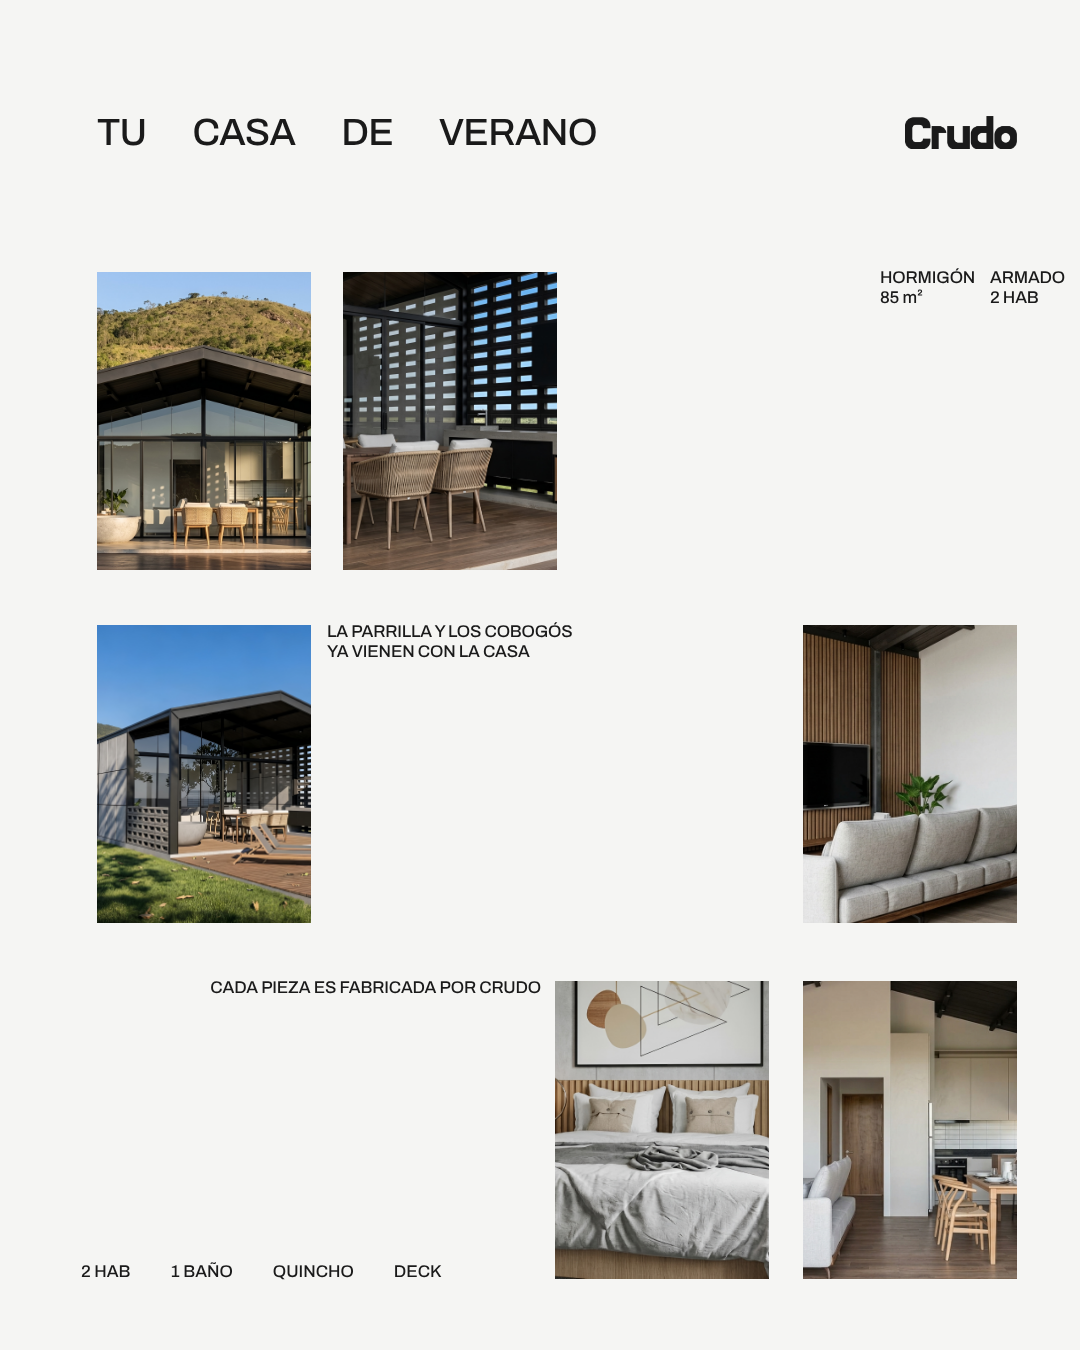
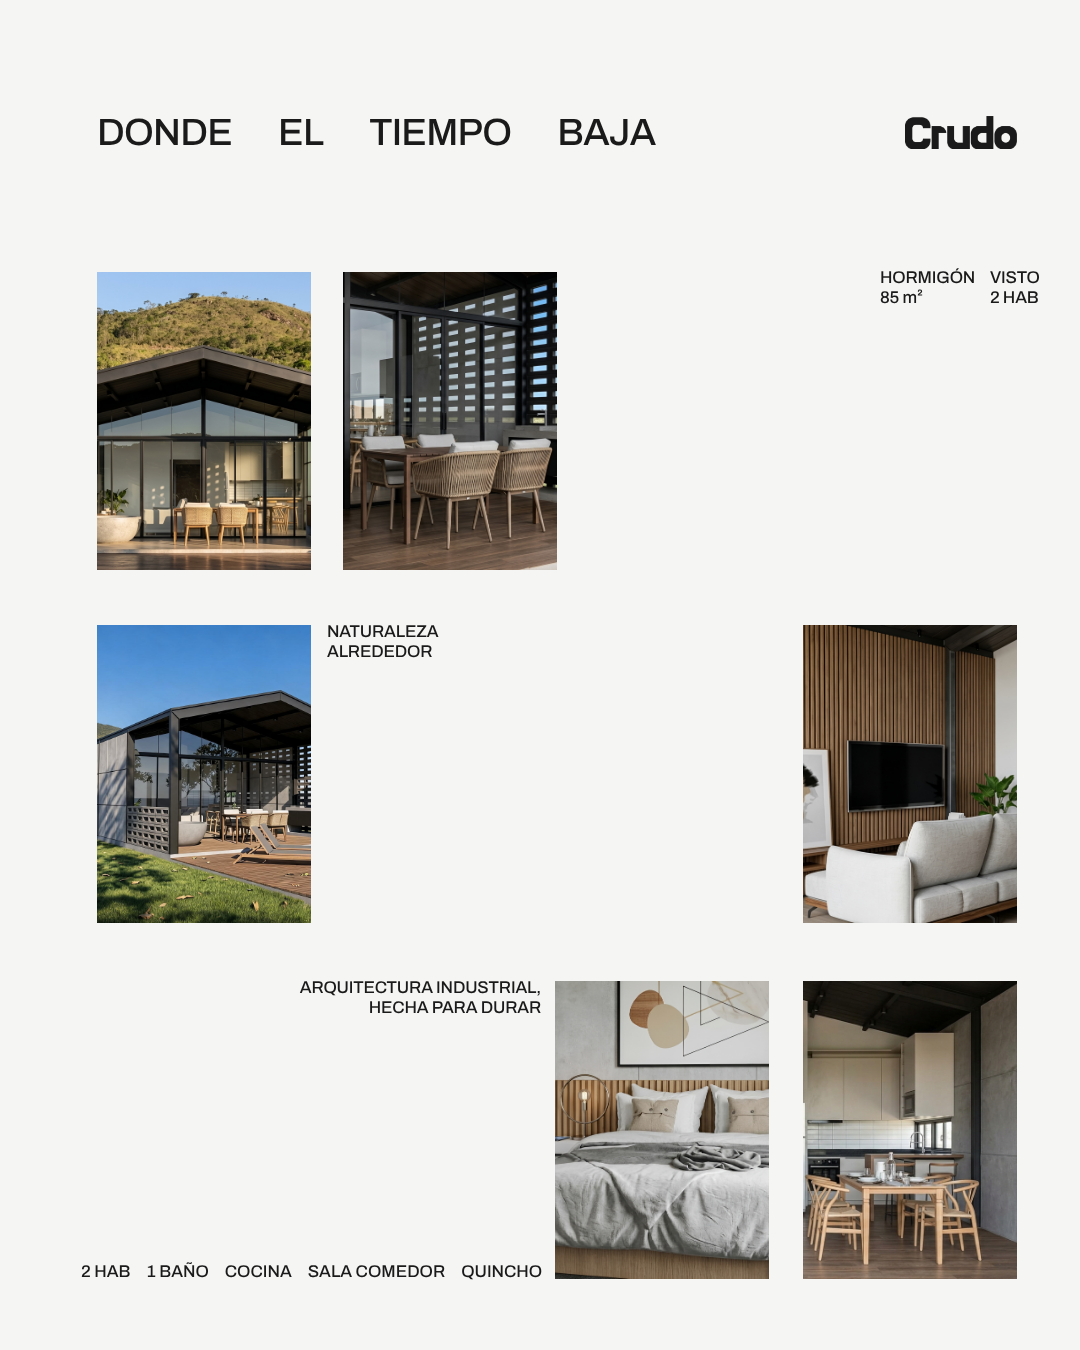
Carruseles editoriales: correcciones de Diego (frases, fotos, lámina 2 con lo que incluye)
Claude-Session: https://claude.ai/code/session_0148DkUn8cZ8yRuXF434YGqr

diff --git a/contenido/plantillas/carrusel_editorial.py b/contenido/plantillas/carrusel_editorial.py
@@ -24,46 +24,49 @@ TIPOLOGIAS = {
         "titulo": ["El", "refugio", "que", "buscabas"],
         "col1": ["Hormigón", "31 m²"], "col2": ["armado", "Loft"],
         "frase_media": ["Despertar", "frente al verde"],
+        "frase_material": ["Cada pieza es fabricada por Crudo"],
         "pie": ["1 hab", "1 baño", "deck"],
         "grilla": [("1-campo", "31% 62%"), ("1-e", "62% 50%"), ("1-i", "72% 50%"),
                    ("1-k", "58% 50%"), ("1-d", "58% 50%"), ("1-l", "50% 72%")],
         "exterior": ("1-campo", "27% 50%"),
-        "exterior_texto": ["Tu refugio de fin de semana", "Concreto arquitectónico"],
+        "exterior_texto": ["1 hab · 1 baño · deck"],
         "closeup": ("1-e", "58% 50%"),
     },
     "crudo02": {
-        "titulo": ["Todo", "a", "un", "paso"],
-        "col1": ["Hormigón", "26 m²"], "col2": ["armado", "Loft"],
-        "frase_media": ["Cocinás, dormís", "y salís al deck"],
+        "titulo": ["Desconectar", "es", "esto"],
+        "col1": ["Hormigón", "26 m²"], "col2": ["visto", "Loft"],
+        "frase_media": ["Silencio, verde", "y descanso"],
+        "frase_material": ["Materiales para toda la vida"],
         "pie": ["1 hab", "1 baño", "kitchenette", "deck"],
-        "grilla": [("2-a", "40% 50%"), ("2-b", "62% 50%"), ("2-g", "62% 50%"),
-                   ("2-c", "45% 50%"), ("2-e", "50% 50%"), ("2-f", "50% 50%")],
-        "exterior": ("2-a", "42% 50%"),
-        "exterior_texto": ["Kitchenette, deck y cobogós", "Concreto arquitectónico"],
-        "closeup": ("2-e", "48% 50%"),
+        "grilla": [("2-a", "70% 50%"), ("2-b", "70% 50%"), ("2-g", "70% 50%"),
+                   ("2-c", "55% 50%"), ("2-e", "75% 50%"), ("2-f", "50% 50%")],
+        "exterior": ("2-a", "50% 50%"), "exterior_ajuste": "contain",
+        "exterior_texto": ["1 hab · 1 kitchenette · 1 deck"],
+        "closeup": ("2-b", "72% 50%"),
     },
     "crudo03": {
-        "titulo": ["Una", "casa", "para", "quedarse"],
+        "titulo": ["Tu", "lugar", "en", "paz"],
         "col1": ["Hormigón", "66 m²"], "col2": ["armado", "2 hab"],
-        "frase_media": ["Un estar que", "se abre afuera"],
-        "pie": ["2 hab", "1 baño", "cocina con isla"],
-        "grilla": [("3-a", "58% 50%"), ("3-c", "40% 50%"), ("3-d", "60% 50%"),
-                   ("3-f", "60% 50%"), ("3-h", "62% 50%"), ("3-g", "55% 50%")],
-        "exterior": ("3-a", "60% 50%"),
-        "exterior_texto": ["Dos dormitorios y cocina con isla", "Concreto arquitectónico"],
-        "closeup": ("3-f", "62% 50%"),
+        "frase_media": ["Mañanas lentas,", "tardes al aire libre"],
+        "frase_material": ["Hormigón armado y", "concreto de alto performance"],
+        "pie": ["cocina con isla", "sala comedor", "quincho"],
+        "grilla": [("3-a", "0% 50%"), ("3-l", "20% 50%"), ("3-b", "85% 50%"),
+                   ("3-g", "75% 50%"), ("3-h", "85% 50%"), ("3-c", "75% 50%")],
+        "exterior": ("3-k", "50% 50%"), "exterior_ajuste": "contain",
+        "exterior_texto": ["2 hab · 1 baño · cocina con isla", "Sala comedor · quincho"],
+        "closeup": ("3-g", "70% 50%"),
     },
     "crudo04": {
-        "titulo": ["Tu", "casa", "de", "verano"],
-        "col1": ["Hormigón", "85 m²"], "col2": ["armado", "2 hab"],
-        "frase_media": ["La parrilla y los cobogós", "ya vienen con la casa"],
-        "pie": ["2 hab", "1 baño", "quincho", "deck"],
-        "grilla": [("4-a", "50% 55%"), ("4-c", "72% 50%"), ("4-b", "45% 50%"),
-                   ("4-e", "30% 50%"), ("4-h", "50% 50%"), ("4-f", "55% 50%")],
-        "exterior": ("4-a", "50% 55%"),
-        "exterior_texto": ["Quincho con parrilla y deck", "Concreto arquitectónico"],
-        "closeup": ("4-h", "50% 50%"),
-        "closeup_claro": True,  # pared y cuadro claros arriba: logo oscuro, sin velo
+        "titulo": ["Donde", "el", "tiempo", "baja"],
+        "col1": ["Hormigón", "85 m²"], "col2": ["visto", "2 hab"],
+        "frase_media": ["Naturaleza", "alrededor"],
+        "frase_material": ["Arquitectura industrial,", "hecha para durar"],
+        "pie": ["2 hab", "1 baño", "cocina", "sala comedor", "quincho"],
+        "grilla": [("4-a", "50% 55%"), ("4-c", "60% 50%"), ("4-B", "45% 50%"),
+                   ("4-e", "15% 50%"), ("4-h", "40% 50%"), ("4-f", "80% 50%")],
+        "exterior": ("4-B", "50% 50%"), "exterior_ajuste": "contain",
+        "exterior_texto": ["2 hab · 1 baño · cocina", "Sala comedor · quincho"],
+        "closeup": ("4-e", "18% 50%"),
     },
 }
 
@@ -91,6 +94,20 @@ def html(clave, t):
     grilla = "\n".join(
         f'<img class="foto" src="{render(r)}" style="left:{x}px;top:{y}px;width:214px;height:298px;object-position:{pos}">'
         for (x, y), (r, pos) in zip(CELDAS, t["grilla"]))
+    completo = t.get("exterior_ajuste") == "contain"
+    src_ext = render(t["exterior"][0])
+    if completo:
+        # módulo completo: la foto entera a todo el ancho, centrada sobre fondo claro
+        w, h = Image.open(src_ext.replace("file://", "")).size
+        alto = round(1080 * h / w)
+        exterior = f'<img class="foto" src="{src_ext}" style="left:0;top:{(1350 - alto) // 2}px;width:1080px;height:{alto}px">'
+    else:
+        exterior = f'<img class="foto" src="{src_ext}" style="left:0;top:0;width:1080px;height:1350px;object-position:{t["exterior"][1]}">'
+    l2_clase = "lam" if completo else "lam oscura"
+    l2_logo = logo_iron if completo else logo_ala
+    l2_velos = "" if completo else (
+        '<div class="velo" style="top:0;height:300px;background:linear-gradient(to bottom, rgb(26 26 26 / 0.5), rgb(26 26 26 / 0))"></div>'
+        '<div class="velo" style="bottom:0;height:260px;background:linear-gradient(to top, rgb(26 26 26 / 0.42), rgb(26 26 26 / 0))"></div>')
     claro = t.get("closeup_claro", False)
     logo_l3 = logo_iron if claro else logo_ala
     velo_l3 = "" if claro else '<div class="velo" style="top:0;height:220px;background:linear-gradient(to bottom, rgb(26 26 26 / 0.35), rgb(26 26 26 / 0))"></div>'
@@ -117,17 +134,16 @@ def html(clave, t):
   <div class="t" style="left:880px;top:268px">{texto(t["col1"])}</div>
   <div class="t" style="left:990px;top:268px">{texto(t["col2"])}</div>
   <div class="t" style="left:327px;top:622px">{texto(t["frase_media"])}</div>
-  <div class="t" style="right:539px;top:978px;text-align:right">Cada pieza es fabricada por Crudo</div>
-  <div class="palabras" style="left:81px;top:1262px;font-size:17px;gap:40px">{spans(t["pie"])}</div>
+  <div class="t" style="right:539px;top:978px;text-align:right">{texto(t["frase_material"])}</div>
+  <div class="palabras" style="left:81px;top:1262px;font-size:17px;gap:{40 if len(t["pie"]) < 5 else 16}px">{spans(t["pie"])}</div>
 </section>
 
-<section class="lam oscura" id="l2">
-  <img class="foto" src="{render(t["exterior"][0])}" style="left:0;top:0;width:1080px;height:1350px;object-position:{t["exterior"][1]}">
-  <div class="velo" style="top:0;height:300px;background:linear-gradient(to bottom, rgb(26 26 26 / 0.5), rgb(26 26 26 / 0))"></div>
-  <div class="velo" style="bottom:0;height:260px;background:linear-gradient(to top, rgb(26 26 26 / 0.42), rgb(26 26 26 / 0))"></div>
+<section class="{l2_clase}" id="l2">
+  {exterior}
+  {l2_velos}
   <div class="t" style="left:47px;top:66px;font-size:19px">{nombre}<br>{texto([sup])}</div>
   <div class="t" style="left:420px;top:66px;font-size:19px">{texto(t["exterior_texto"])}</div>
-  <img class="logo" src="{logo_ala}" style="right:47px;top:66px">
+  <img class="logo" src="{l2_logo}" style="right:47px;top:66px">
   <div class="palabras" style="left:0;right:0;justify-content:center;top:1296px;font-size:19px;gap:40px">{spans(["Un", "sistema,", "no", "una", "obra"])}</div>
 </section>
 
